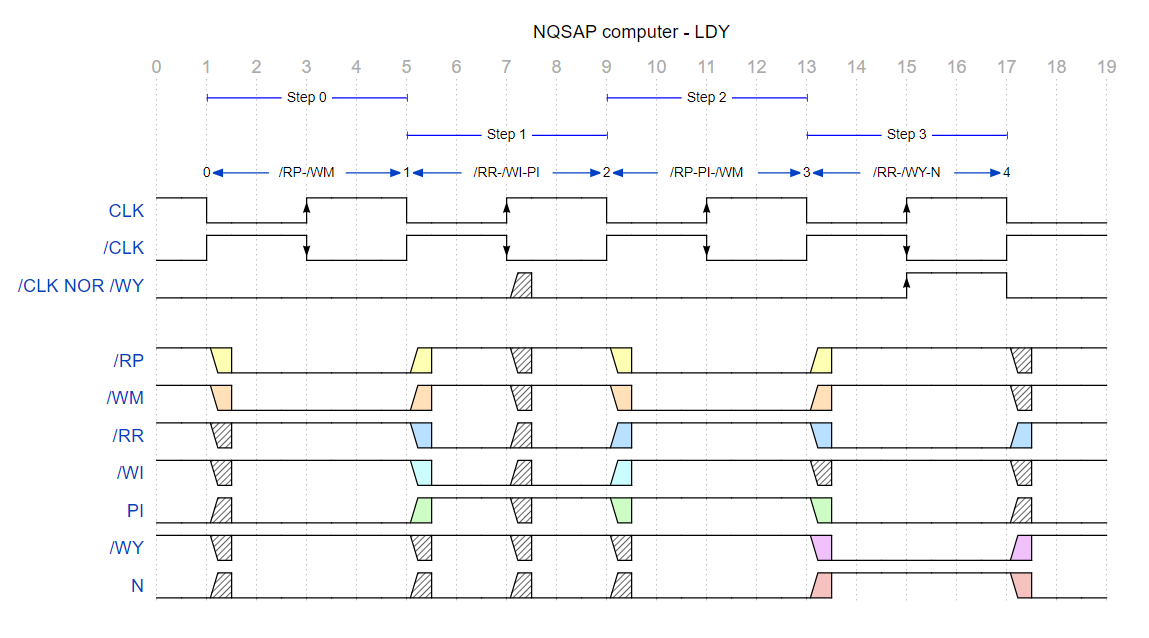
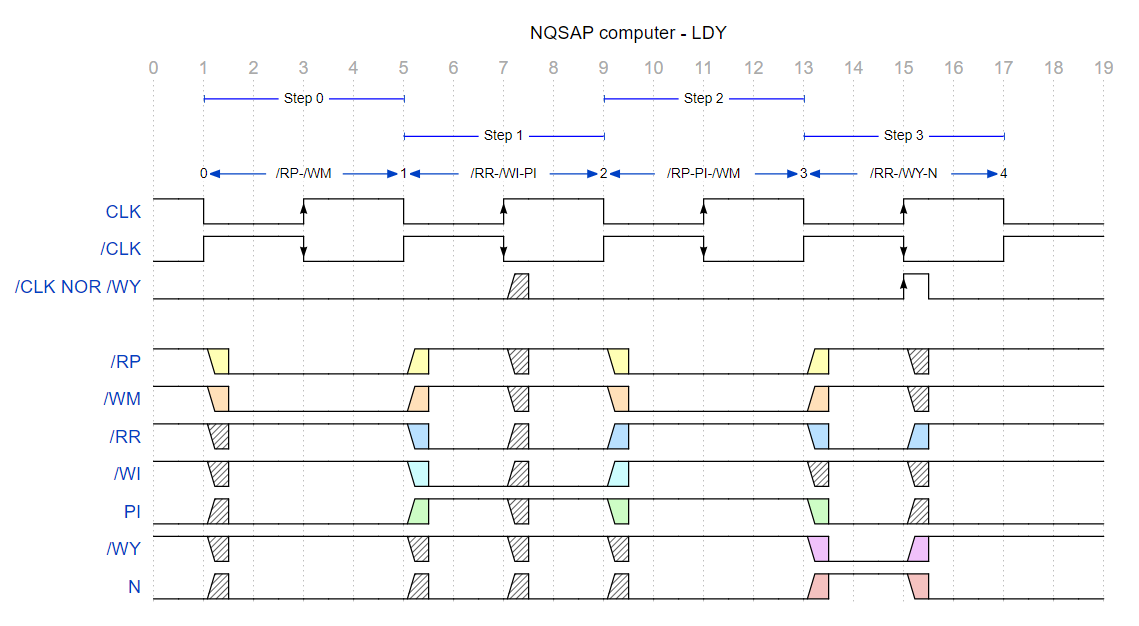
Update foto LDY in CL

diff --git a/docs/_docs/40-control.md b/docs/_docs/40-control.md
@@ -3,8 +3,6 @@ title: "Control Logic"
 permalink: /docs/control/
 excerpt: "Control Logic del BEAM computer"
 ---
-## WORK IN PROGRESS
-
 [![Control Logic del BEAM computer](../../assets/control/40-beam-control.png "Control Logic del BEAM computer"){:width="100%"}](../../assets/control/40-beam-control.png)
 
 In generale, la gestione delle istruzioni è affidata alla Control Logic, che consta di tre capisaldi: Instruction Register, Ring Counter e Microcode. L'Instruction Register contiene l'istruzione in esecuzione, il Ring Counter tiene traccia delle microistruzioni che compongono l'istruzione e il Microcode definisce i segnali di controllo necessari per eseguire le microistruzioni.
@@ -245,7 +243,7 @@ Il grafico seguente mostra i fronti di salita e di discesa dei soli segnali di c
 Il glitching dovuto alle variazioni degli indirizzi di ingresso delle EEPROM del SAP (ma è così anche nell'NQSAP) avviene:
 
 - ad ogni Falling Edge del clock come conseguenza del cambiamento delle uscite del Ring Counter (momenti 1, 5, 9, 13, 17)
-- al Rising Edge del Clock durante il caricamento dell'istruzione nell'Instruction Register (momento 7 nello step 1).
+- al Rising Edge del Clock come conseguenza del caricamento dell'istruzione nell'Instruction Register (momento 7 nello step 1).
 
 Risulta evidente che il fenomeno si manifesta su tutti i segnali di controllo, sia quelli variati di proposito, sia quelli che non vengono modificati nello step corrente. Come nota a latere, bisogna segnalare che *tutti* i segnali di controllo del computer sono soggetti a questo fenomeno, anche se non indicati nel grafico.
 
@@ -496,9 +494,6 @@ Ho posizionato in uscita sul Carry dell'ALU un LED (ricordare che l'uscita è ne
 
 Dopo queste modifiche, le istruzioni di comparazione sembrano funzionare correttamente.
 
-TO DO: finire http://www.6502.org/tutorials/compare_beyond.html da "In fact, many 6502 assemblers will allow BLT (Branch on Less Than) "
-
-• Vedere bene quali istruzioni CP* hanno bisogno di LF, anche sul file XLS
 
 Altre referenze Tom Nisbet per Flags
 
@@ -534,6 +529,8 @@ La Control Logic del computer BEAM riprende tutto ciò che è stato sviluppato d
 - Forse utile fare una tabella per vedere le similitudini tra istruzione LDA nel SAP e LDA94 nel NQSAP
 - da aggiungere: In addition, the SAP-1 also drives address lines with the outputs of the Flags Register, so this causes uncertainty on any rising edge that modifies the flags.
 - Se /LDR-ACTIVE viene attivato (LO), LDR-ACTIVE passa a HI e disattiva le ROM2 e ROM3 collegate via /OE.
+- finire http://www.6502.org/tutorials/compare_beyond.html da "In fact, many 6502 assemblers will allow BLT (Branch on Less Than) "
+- Vedere bene quali istruzioni CP* hanno bisogno di LF, anche sul file XLS
 
 ## Forse interessante da tenere, espandere, collegare ad altri paragrafi
 
